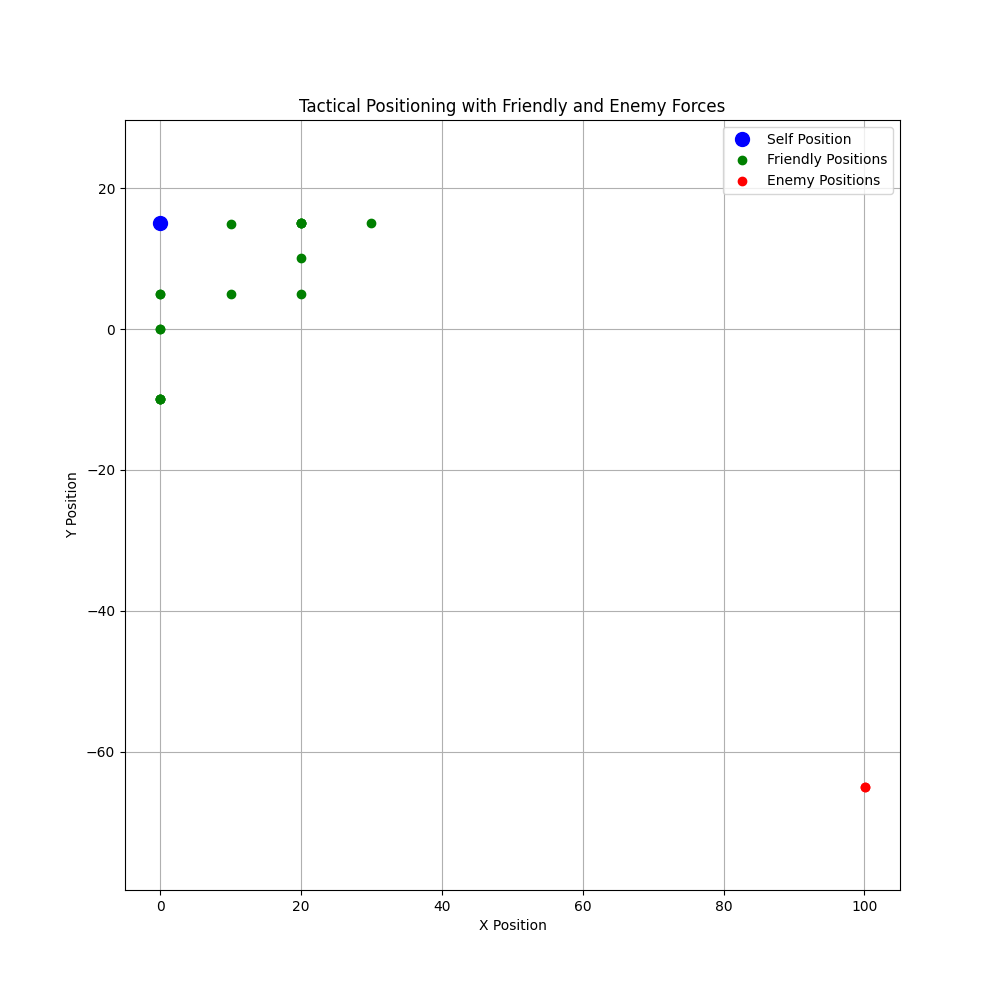
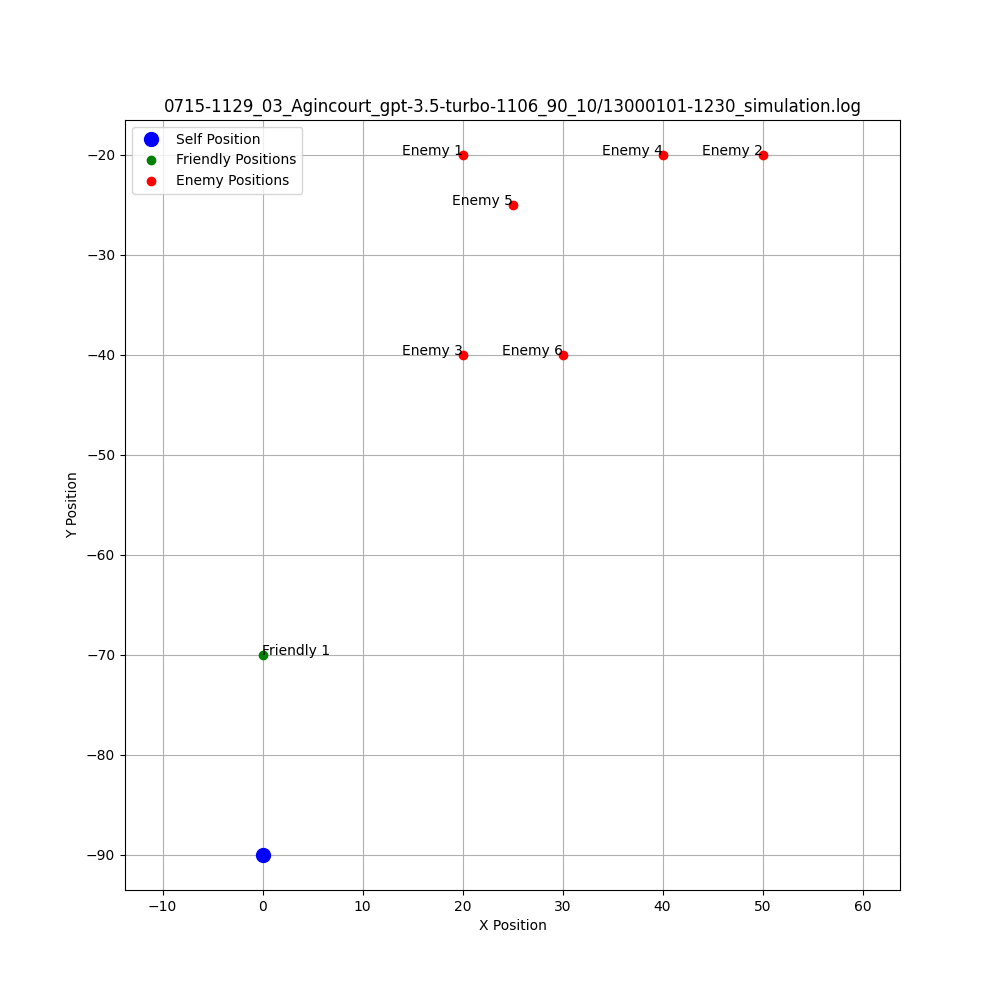
Created plot for simulation

diff --git a/src/utils/surrounding_visualization.py b/src/utils/surrounding_visualization.py
@@ -20,30 +20,36 @@ def plot_tactical_positions(data, img_save_path = "logs", img_name = "tactical_p
     """
     # Extract positions and convert polar coordinates to cartesian
     self_position = np.array(data['self']['position'])
-    friendly_positions = np.array([[f['distance'], f['bearing']] for f in data['friendly']])
-    enemy_positions = np.array([[e['distance'], e['bearing']] for e in data['enemy']])
+    # friendly_positions = np.array([[f['distance'], f['bearing']] for f in data['friendly']])
+    # enemy_positions = np.array([[e['distance'], e['bearing']] for e in data['enemy']])
     
-    friendly_cartesian_positions = np.array([polar_to_cartesian(d, b) for d, b in friendly_positions])
-    enemy_cartesian_positions = np.array([polar_to_cartesian(d, b) for d, b in enemy_positions])
+    # friendly_cartesian_positions = np.array([polar_to_cartesian(d, b) for d, b in friendly_positions])
+    # enemy_cartesian_positions = np.array([polar_to_cartesian(d, b) for d, b in enemy_positions])
+
+    friendly_cartesian_positions = np.array([f['position'] for f in data["friendly"]])
+    enemy_cartesian_positions = np.array([f['position'] for f in data["enemy"]])
     
     # Plotting
     plt.figure(figsize=(10, 10))
     plt.plot(self_position[0], self_position[1], 'bo', markersize=10, label='Self Position')
     if len(friendly_cartesian_positions) > 0:
         plt.plot(friendly_cartesian_positions[:, 0], friendly_cartesian_positions[:, 1], 'go', label='Friendly Positions')
-        # for i, (x, y) in enumerate(friendly_cartesian_positions, start=1):
-        #     # plt.text(x, y, f'Friendly {i}', horizontalalignment='right')
-        #     plt.text(x, y, f'', horizontalalignment='right')
+        for i, (x, y) in enumerate(friendly_cartesian_positions, start=1):
+            plt.text(x, y, f'Friendly {i}', horizontalalignment='left')
+            # plt.text(x, y, f'', horizontalalignment='right')
     if len(enemy_cartesian_positions) > 0:
         plt.plot(enemy_cartesian_positions[:, 0], enemy_cartesian_positions[:, 1], 'ro', label='Enemy Positions')
-        # for i, (x, y) in enumerate(enemy_cartesian_positions, start=1):
+        for i, (x, y) in enumerate(enemy_cartesian_positions, start=1):
+            plt.text(x, y, f'Enemy {i}', horizontalalignment='right')
         #     plt.text(x, y, f'', horizontalalignment='right')
     plt.xlabel('X Position')
     plt.ylabel('Y Position')
-    plt.title('Tactical Positioning with Friendly and Enemy Forces')
+    plt.title('0715-1129_03_Agincourt_gpt-3.5-turbo-1106_90_10/13000101-1230_simulation.log')
     plt.legend()
     plt.grid(True)
     plt.axis('equal')
+
+    plt.annotate("text", xy=(0,-60), xycoords='figure points')
 
 
     if not os.path.exists(img_save_path):
@@ -58,25 +64,34 @@ def plot_tactical_positions(data, img_save_path = "logs", img_name = "tactical_p
     return 
 
 if __name__ == '__main__':
-    test_data = {'self': {'id': 'ARMY-74fe6080', 'position': [0, 15]},
-                 'friendly': [{'agent_id': 'ARMY-7daf4081', 'distance': 22.4, 'bearing': 26.6, 'remaining number': 240, 'current action': 'Reposition Forces Moving to higher ground to gain a strategic advantage for deploying longbows.'},
-                              {'agent_id': 'ARMY-10f1179a', 'distance': 18.0, 'bearing': 56.3, 'remaining number': 200, 'current action': 'Conduct Reconnaissance'},
-                              {'agent_id': 'ARMY-c19b8322', 'distance': 11.2, 'bearing': 26.6, 'remaining number': 900, 'current action': 'Reposition Forces Moving to a more advantageous position to counter enemy flanking maneuvers.'},
-                              {'agent_id': 'ARMY-a149079a', 'distance': 10.0, 'bearing': -90.0, 'remaining number': 0, 'current action': 'Fortify Position Continuing to strengthen defenses at current location to resist enemy attacks and provide support to friendly units.'},
-                              {'agent_id': 'ARMY-1ae0d8c9', 'distance': 0.0, 'bearing': 0.0, 'remaining number': 180, 'current action': 'Deploy Longbows'},
-                              {'agent_id': 'ARMY-4c500870', 'distance': 25.0, 'bearing': 36.9, 'remaining number': 50, 'current action': 'Construct Defenses'},
-                              {'agent_id': 'ARMY-52bc122e', 'distance': 5.0, 'bearing': 90.0, 'remaining number': 2500, 'current action': 'Deploy Longbows Continuing to deploy longbowmen to harass enemy flanking maneuvers and protect against cavalry charges.'},
-                              {'agent_id': 'ARMY-c9f5bbcf', 'distance': 20.6, 'bearing': 14.0, 'remaining number': 100, 'current action': 'Reposition Forces Repositioning to a location that provides a strategic advantage for an ambush using longbows, supporting friendly units against enemy flanking maneuvers and cavalry charge.'},
-                              {'agent_id': 'ARMY-1af943c9', 'distance': 25.0, 'bearing': 36.9, 'remaining number': 50, 'current action': 'Support Friendly Units'},
-                              {'agent_id': 'ARMY-a7d4cfab', 'distance': 25.0, 'bearing': 36.9, 'remaining number': 100, 'current action': 'Deploy Longbows'},
-                              {'agent_id': 'ARMY-fc5f1de3', 'distance': 25.0, 'bearing': 36.9, 'remaining number': 0, 'current action': 'Reposition Forces Moving to higher ground to gain a strategic advantage for deploying longbows and constructing defenses.'},
-                              {'agent_id': 'ARMY-3fccb570', 'distance': 5.0, 'bearing': 90.0, 'remaining number': 1050, 'current action': 'Reposition Forces'},
-                              {'agent_id': 'ARMY-6c871d86', 'distance': 33.5, 'bearing': 26.6, 'remaining number': 100, 'current action': 'Conduct Reconnaissance Gathering intelligence on enemy movements and positions, avoiding direct engagement, and providing strategic information to the main force.'},
-                              {'agent_id': 'ARMY-650377bd', 'distance': 10.0, 'bearing': -90.0, 'remaining number': 200, 'current action': 'Support Friendly Units'},
-                              {'agent_id': 'ARMY-a3fe287d', 'distance': 10.0, 'bearing': -90.0, 'remaining number': 300, 'current action': 'Deploy Longbows'},
-                              {'agent_id': 'ARMY-e733a690', 'distance': 0.0, 'bearing': 0.0, 'remaining number': 120, 'current action': 'Deploy Longbows Deploying longbowmen to a strategic position to counter enemy cavalry charge and disrupt flanking maneuvers.'}, 
-                              {'agent_id': 'ARMY-e9626295', 'distance': 10.0, 'bearing': -90.0, 'remaining number': 200, 'current action': 'Support Friendly Units'}],
-                  'enemy': [{'agent_id': 'ARMY-83cce6ba', 'distance': 119.3, 'bearing': -33.0, 'remaining number': 12889, 'current action': 'Execute Flanking Maneuvers Using the cover of ForestF to approach and engage enemy longbowmen in close combat, minimizing exposure to long-range fire.'},
-                            {'agent_id': 'ARMY-bbcd6024', 'distance': 119.3, 'bearing': -33.0, 'remaining number': 10800, 'current action': 'Charge Cavalry'}]}
+    test_data = {'self': {'id': 'ARMY-a5341a32', 'position': [0, -90]},
+                 'friendly': [#{'agent_id': 'ARMY-7daf4081', 'distance': 22.4, 'bearing': 26.6, 'remaining number': 240, 'current action': 'Reposition Forces Moving to higher ground to gain a strategic advantage for deploying longbows.'},
+                            #   {'agent_id': 'ARMY-10f1179a', 'distance': 18.0, 'bearing': 56.3, 'remaining number': 200, 'current action': 'Conduct Reconnaissance'},
+                            #   {'agent_id': 'ARMY-c19b8322', 'distance': 11.2, 'bearing': 26.6, 'remaining number': 900, 'current action': 'Reposition Forces Moving to a more advantageous position to counter enemy flanking maneuvers.'},
+                            #   {'agent_id': 'ARMY-a149079a', 'distance': 10.0, 'bearing': -90.0, 'remaining number': 0, 'current action': 'Fortify Position Continuing to strengthen defenses at current location to resist enemy attacks and provide support to friendly units.'},
+                            #   {'agent_id': 'ARMY-1ae0d8c9', 'distance': 0.0, 'bearing': 0.0, 'remaining number': 180, 'current action': 'Deploy Longbows'},
+                            #   {'agent_id': 'ARMY-4c500870', 'distance': 25.0, 'bearing': 36.9, 'remaining number': 50, 'current action': 'Construct Defenses'},
+                            #   {'agent_id': 'ARMY-52bc122e', 'distance': 5.0, 'bearing': 90.0, 'remaining number': 2500, 'current action': 'Deploy Longbows Continuing to deploy longbowmen to harass enemy flanking maneuvers and protect against cavalry charges.'},
+                            #   {'agent_id': 'ARMY-c9f5bbcf', 'distance': 20.6, 'bearing': 14.0, 'remaining number': 100, 'current action': 'Reposition Forces Repositioning to a location that provides a strategic advantage for an ambush using longbows, supporting friendly units against enemy flanking maneuvers and cavalry charge.'},
+                            #   {'agent_id': 'ARMY-1af943c9', 'distance': 25.0, 'bearing': 36.9, 'remaining number': 50, 'current action': 'Support Friendly Units'},
+                            #   {'agent_id': 'ARMY-a7d4cfab', 'distance': 25.0, 'bearing': 36.9, 'remaining number': 100, 'current action': 'Deploy Longbows'},
+                            #   {'agent_id': 'ARMY-fc5f1de3', 'distance': 25.0, 'bearing': 36.9, 'remaining number': 0, 'current action': 'Reposition Forces Moving to higher ground to gain a strategic advantage for deploying longbows and constructing defenses.'},
+                            #   {'agent_id': 'ARMY-3fccb570', 'distance': 5.0, 'bearing': 90.0, 'remaining number': 1050, 'current action': 'Reposition Forces'},
+                            #   {'agent_id': 'ARMY-6c871d86', 'distance': 33.5, 'bearing': 26.6, 'remaining number': 100, 'current action': 'Conduct Reconnaissance Gathering intelligence on enemy movements and positions, avoiding direct engagement, and providing strategic information to the main force.'},
+                            #   {'agent_id': 'ARMY-650377bd', 'distance': 10.0, 'bearing': -90.0, 'remaining number': 200, 'current action': 'Support Friendly Units'},
+                            #   {'agent_id': 'ARMY-a3fe287d', 'distance': 10.0, 'bearing': -90.0, 'remaining number': 300, 'current action': 'Deploy Longbows'},
+                            #   {'agent_id': 'ARMY-e733a690', 'distance': 0.0, 'bearing': 0.0, 'remaining number': 120, 'current action': 'Deploy Longbows Deploying longbowmen to a strategic position to counter enemy cavalry charge and disrupt flanking maneuvers.'}, 
+                            #   {'agent_id': 'ARMY-e9626295', 'distance': 10.0, 'bearing': -90.0, 'remaining number': 200, 'current action': 'Support Friendly Units'},
+                              {'position': [0, -70]}
+                             ],
+                  'enemy': [#{'agent_id': 'ARMY-83cce6ba', 'distance': 119.3, 'bearing': -33.0, 'remaining number': 12889, 'current action': 'Execute Flanking Maneuvers Using the cover of ForestF to approach and engage enemy longbowmen in close combat, minimizing exposure to long-range fire.'},
+                            # {'agent_id': 'ARMY-bbcd6024', 'distance': 119.3, 'bearing': -33.0, 'remaining number': 10800, 'current action': 'Charge Cavalry'},
+                            {'position': [20, -20]},
+                            {'position': [50, -20]},
+                            {'position': [20, -40]},
+                            {'position': [40, -20]},
+                            {'position': [25, -25]},
+                            {'position': [30, -40]}
+                           ]}
     plot_tactical_positions(test_data)
 
